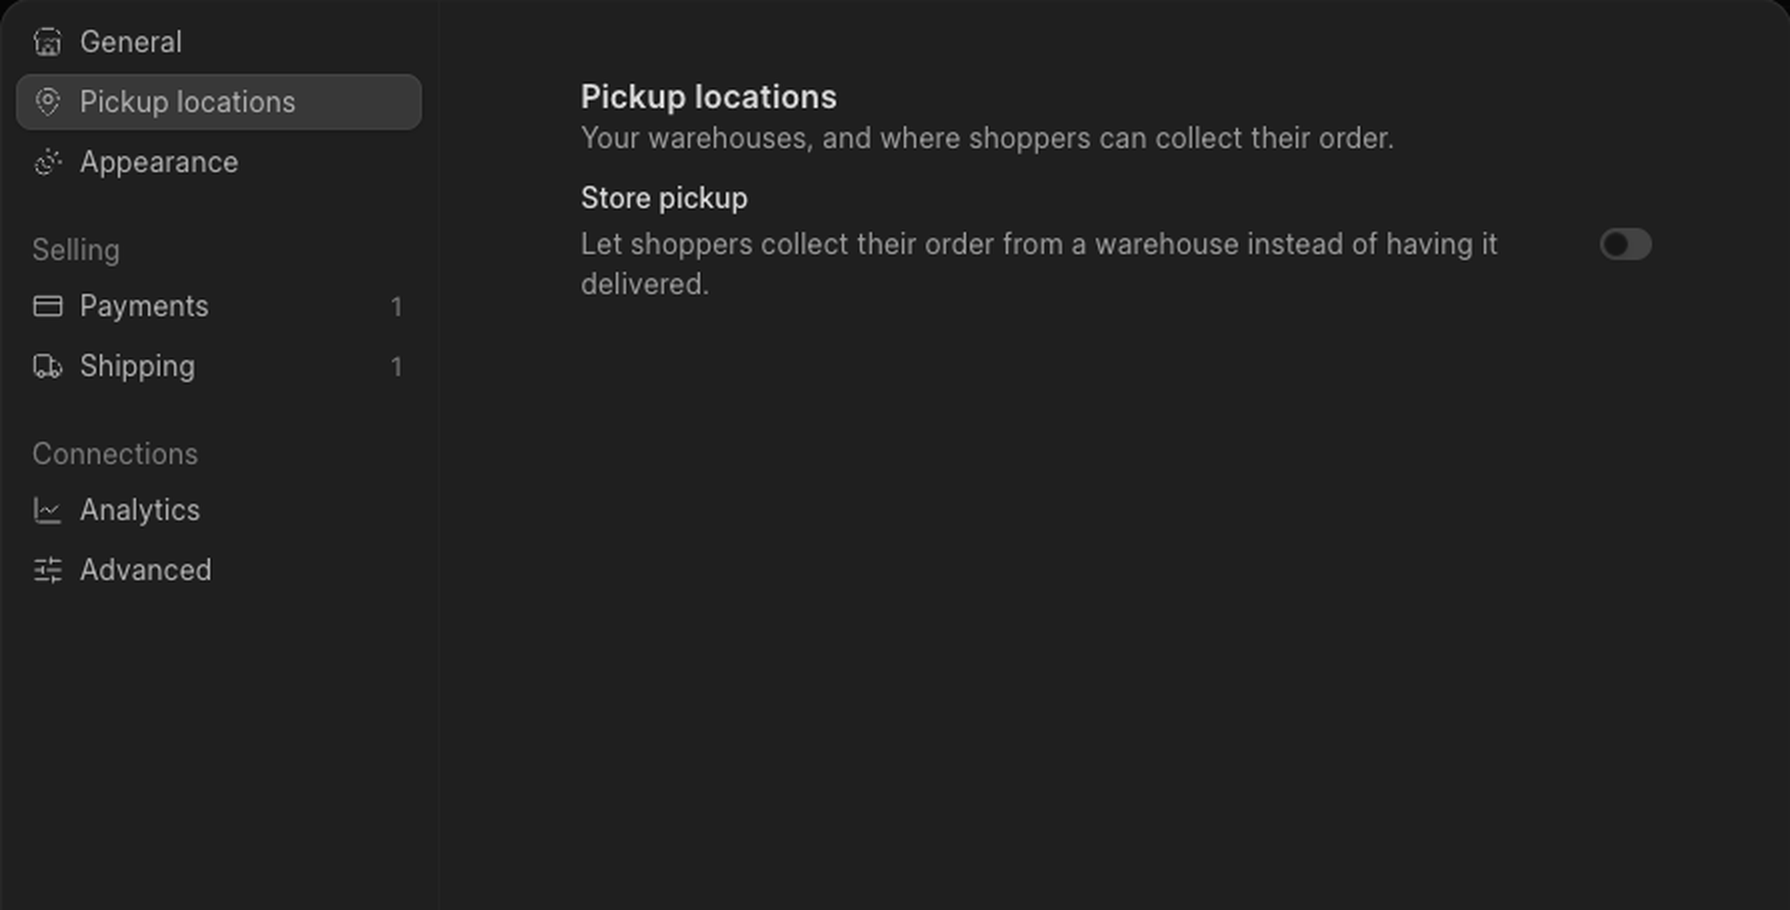
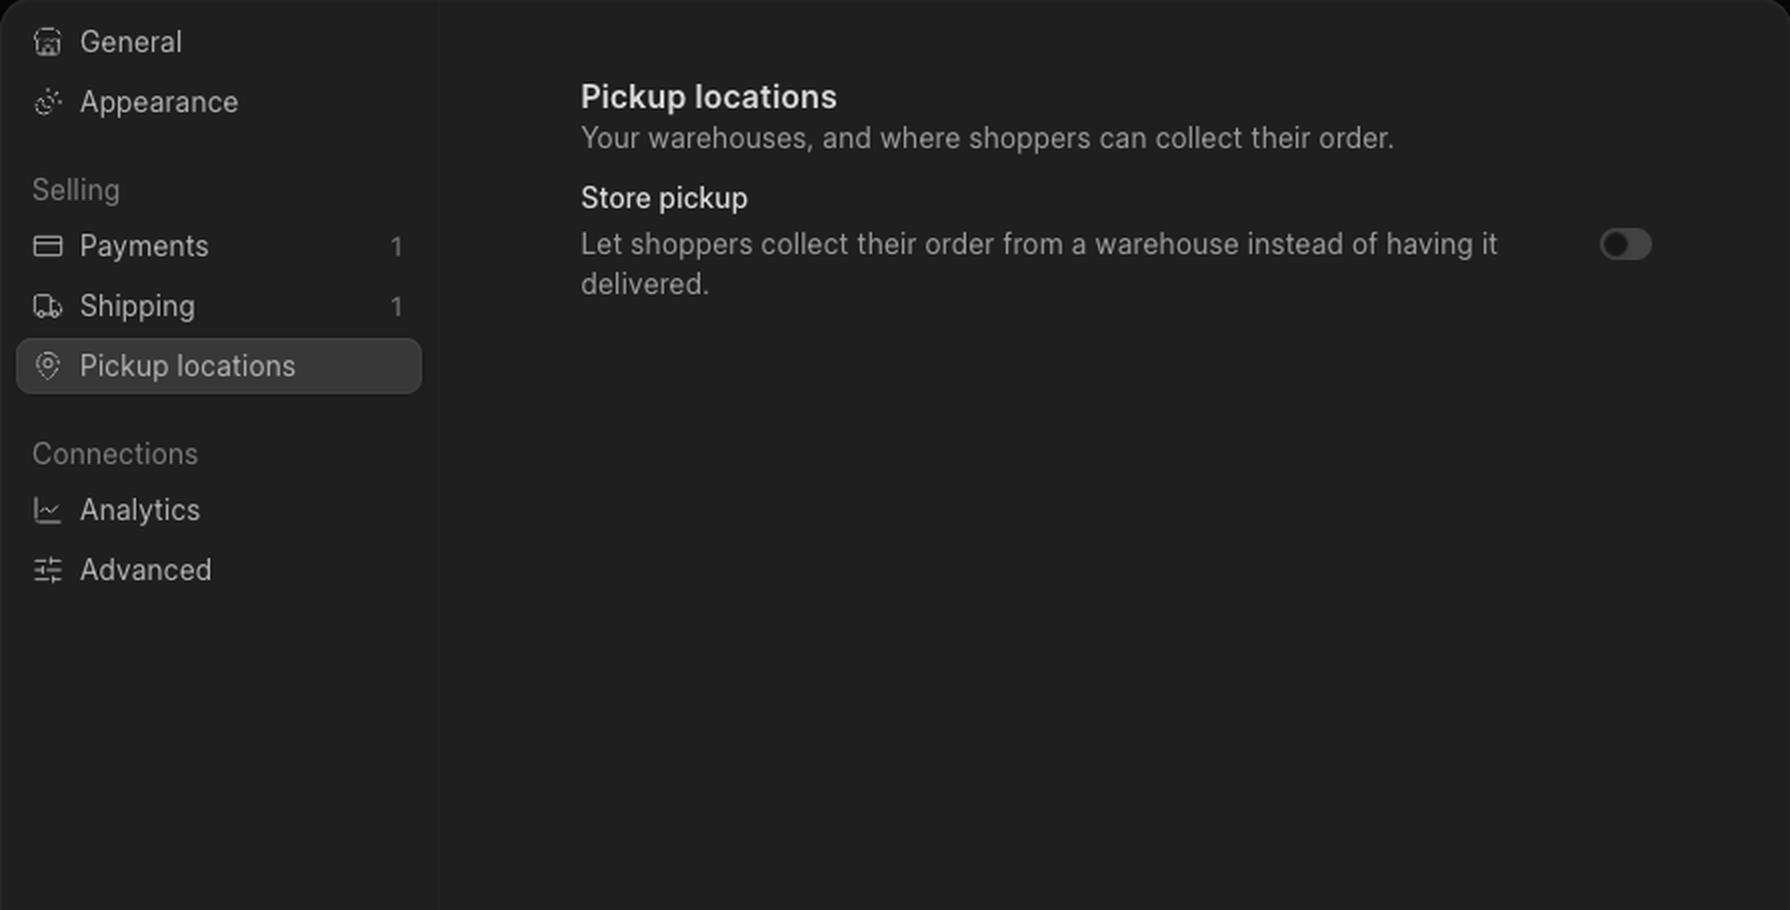
fix(settings): left-align other map matches and refresh pickup screenshots

Changed region(s): [[0.0, 0.0615, 0.2458, 0.2154], [0.0, 0.2462, 0.2458, 0.4308]]

diff --git a/dashboard/src/components/settings/PickupAddressConfig.vue b/dashboard/src/components/settings/PickupAddressConfig.vue
@@ -207,7 +207,7 @@ async function useCurrentLocation() {
         <LocationMap
           ref="map"
           v-model="values.custom_store_location"
-          empty-hint="No pin yet — click the map, or fill in the address above"
+          empty-hint="No pin yet — click the map to place one"
           @place-by-hand="placedByHand"
         />
 
@@ -239,7 +239,7 @@ async function useCurrentLocation() {
             :key="`${match.latitude},${match.longitude}`"
             variant="ghost"
             icon-left="lucide-map-pin"
-            class="h-auto justify-start whitespace-normal py-1.5 text-left"
+            class="h-auto !justify-start py-1.5"
             :label="match.label"
             @click="chooseMatch(match)"
           />

diff --git a/dashboard/src/components/LocationMap.vue b/dashboard/src/components/LocationMap.vue
@@ -144,7 +144,7 @@ onBeforeUnmount(() => {
       <!-- Palette colours, not theme tokens, on purpose: the pill sits on map tiles that stay light
            in both themes, and every token flips in dark mode (surface-gray-7 turns light grey under
            white text). Frappe-ui defines the raw gray scale once, so it does not flip. -->
-      <p class="rounded bg-gray-900 px-3 py-1.5 text-sm text-white shadow">{{ emptyHint }}</p>
+      <p class="rounded-full bg-gray-900 px-3 py-1.5 text-sm text-white shadow">{{ emptyHint }}</p>
     </div>
   </div>
 </template>
